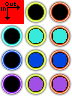
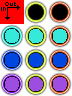
Portals use proper sprites for incoming links.

diff --git a/MGO/Portal.py b/MGO/Portal.py
@@ -7,6 +7,15 @@ class Portal(BaseMGO.GEMGO):
         """Create new sign in position"""
         super(Portal, self).__init__(position, cellmap)
         self.destination = destination
+        if destination is None:
+            outindex = 0
+        elif destination[0] == cellmap.mapdef['dir']:
+            outindex = 1
+        else:
+            outindex = 2
+        inindex = localin + 2*remotein
+        print position, localin, remotein
+        self.image = images.Portal[outindex][inindex]
 
     @classmethod
     def place(cls, cellmap):
@@ -25,12 +34,6 @@ class Portal(BaseMGO.GEMGO):
 
     def sprite(self, player):
         if self.cellmap[self.position]['explored']:
-            if self.destination is None:
-                image = images.Portal[0][1]
-            elif self.destination[0] == self.cellmap.mapdef['dir']:
-                image = images.Portal[1][0]
-            else:
-                image = images.Portal[2][0]
-            return image, self._pixelpos((-6, -6)), -1
+            return self.image, self._pixelpos((-6, -6)), -1
         else:
             return None
